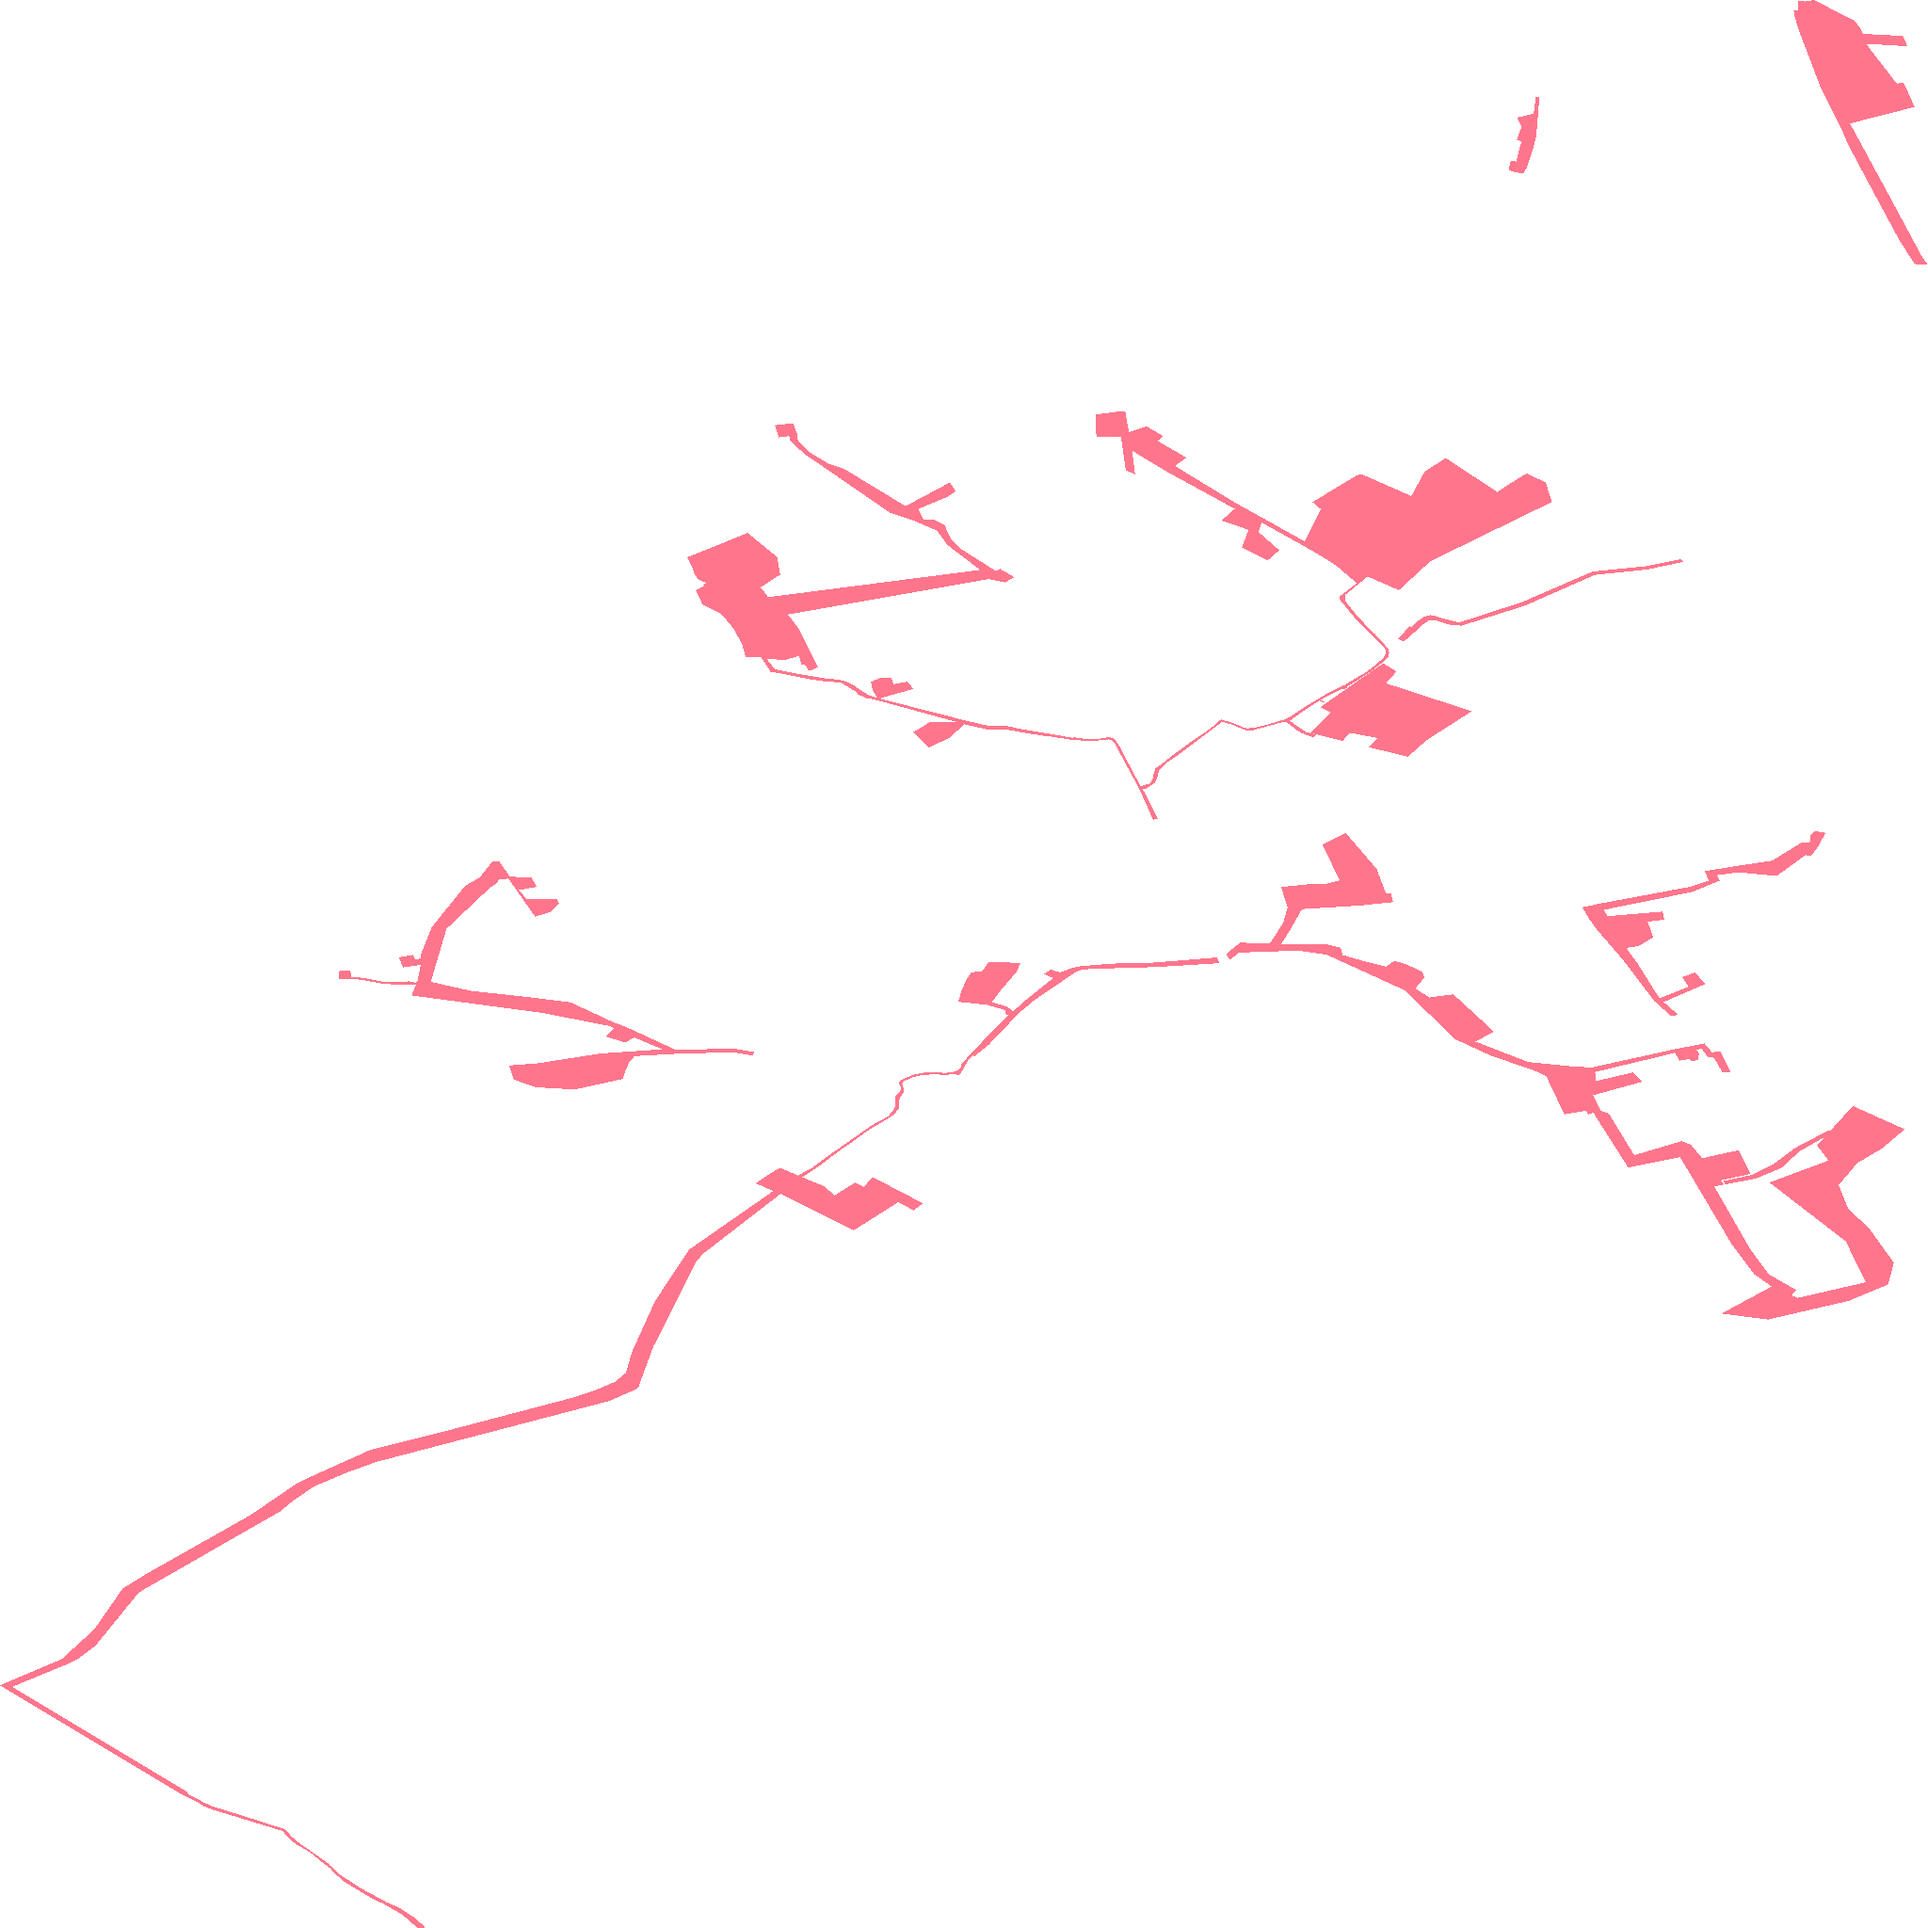
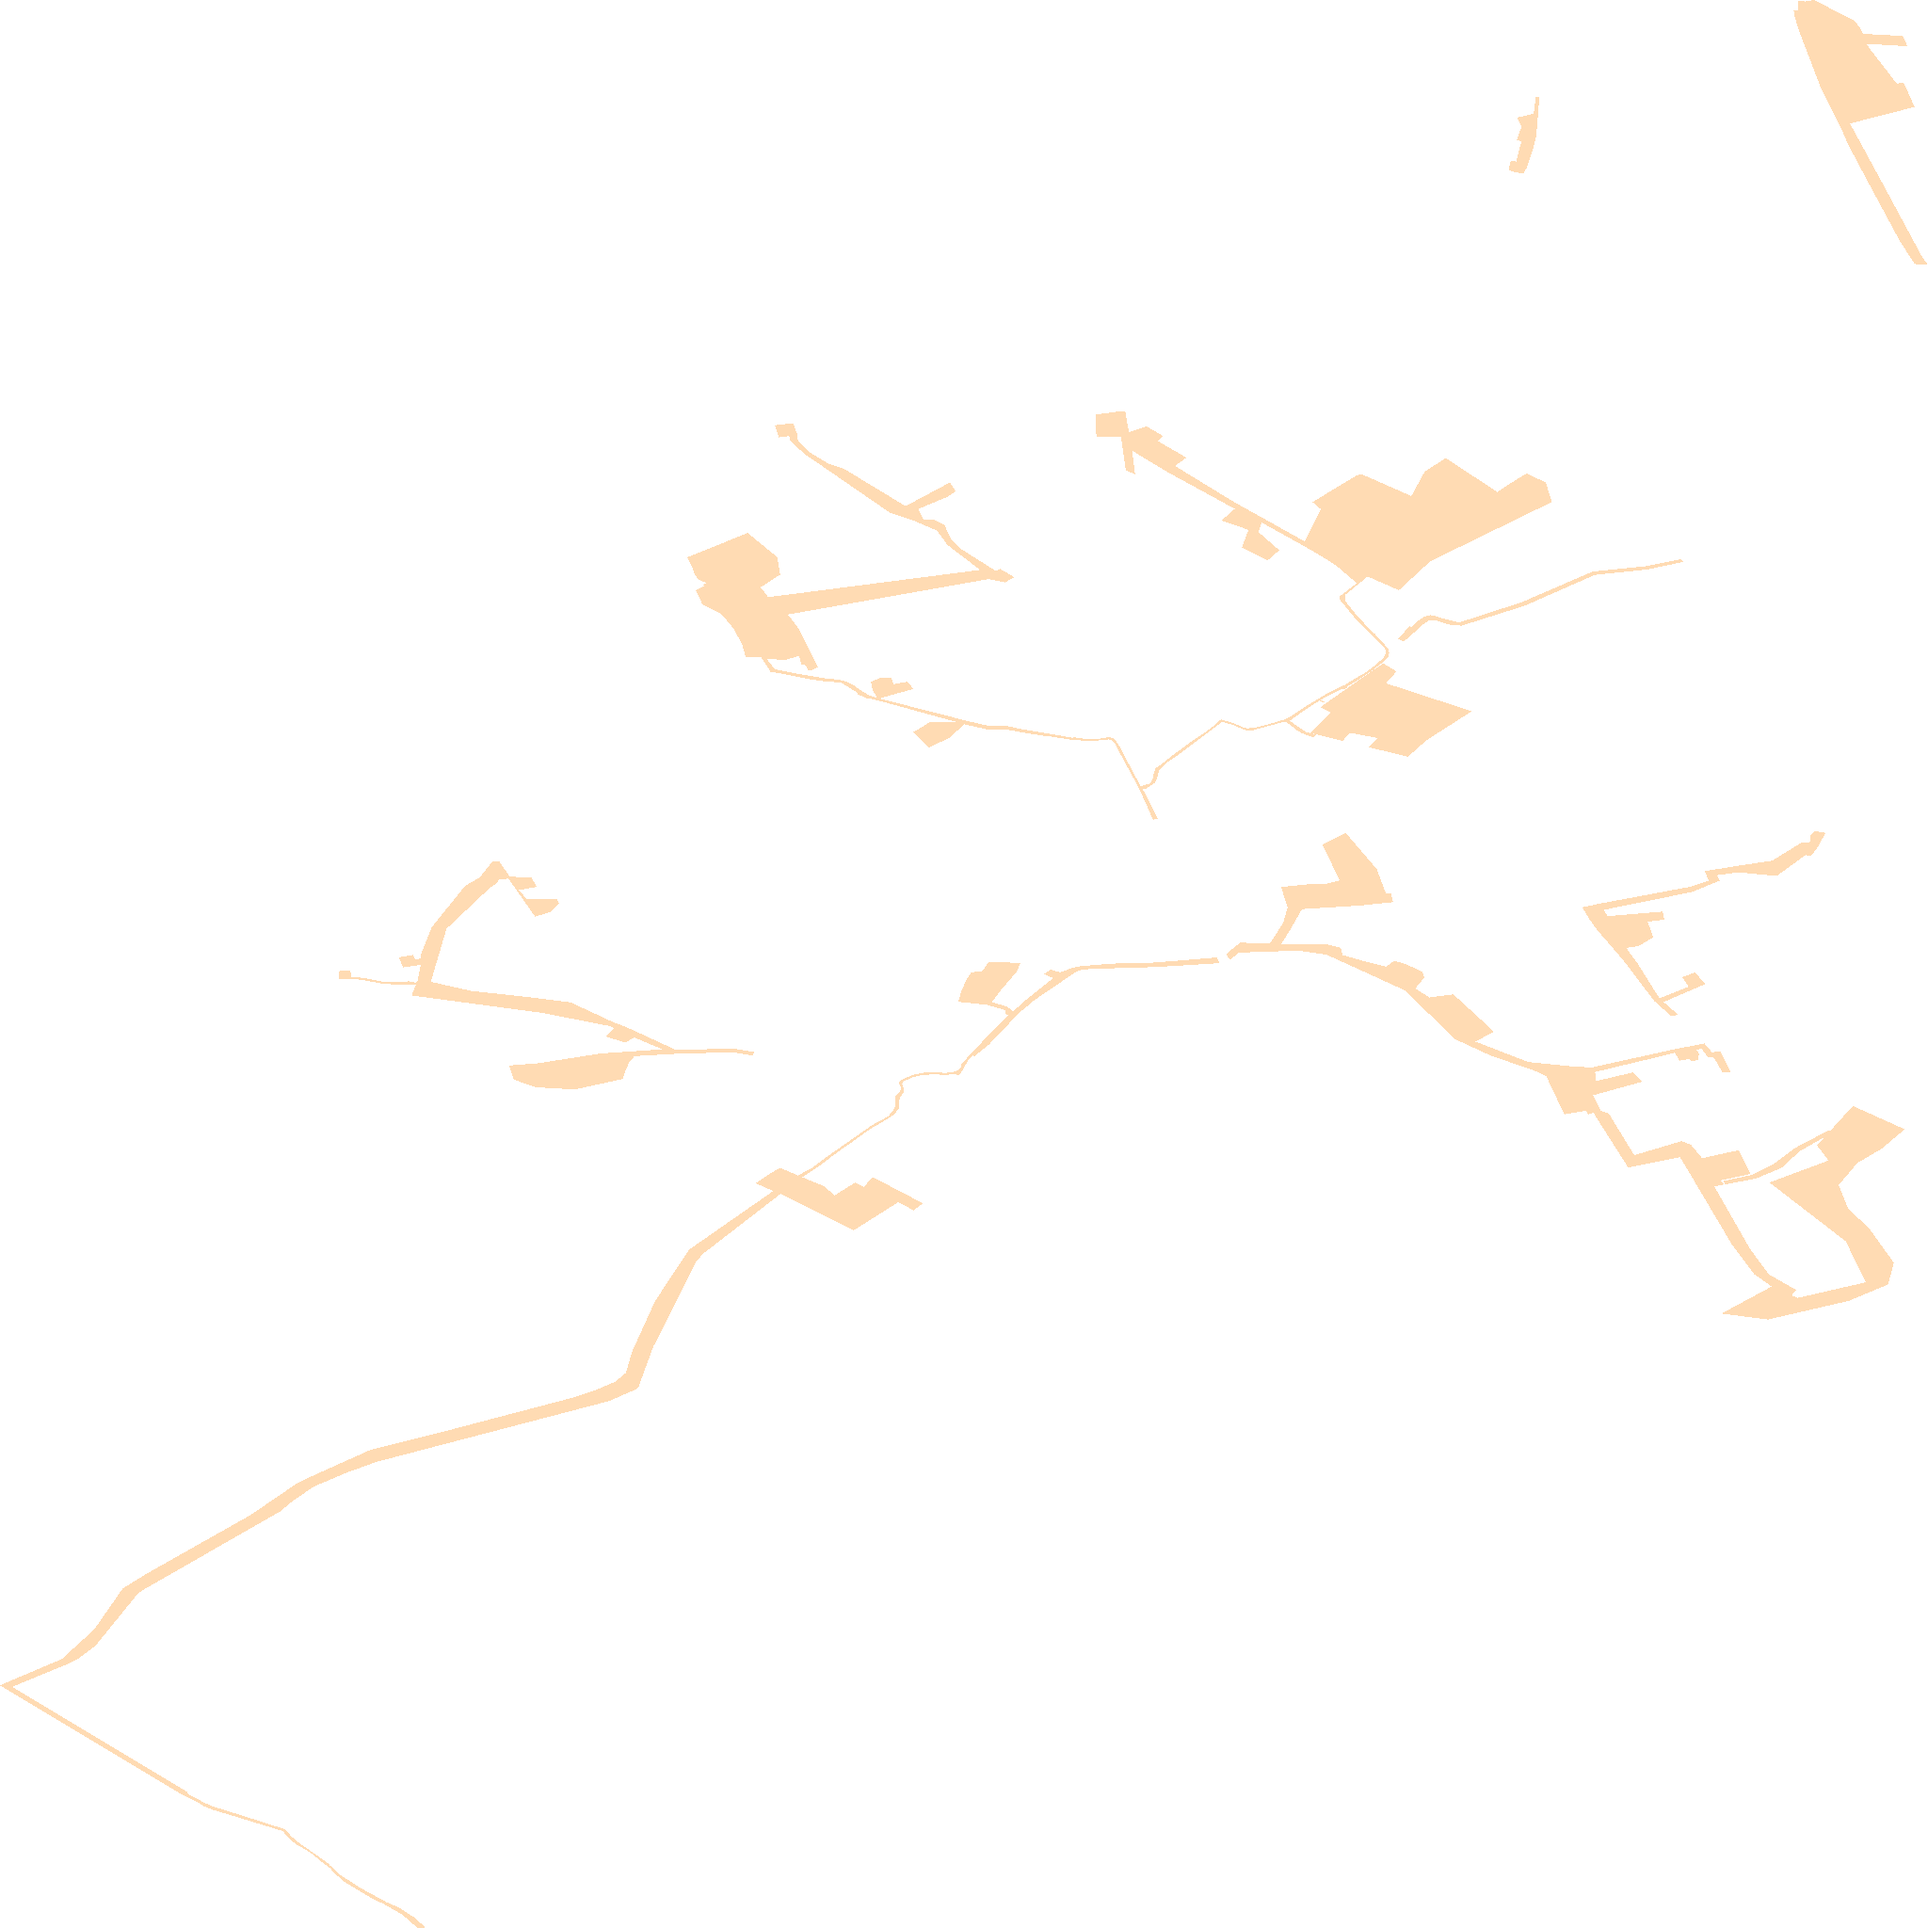
Karte sp_606

diff --git a/sp_606.html b/sp_606.html
@@ -60,7 +60,7 @@
         }
         .custom-control2 {
             position: absolute;
-            bottom: -320px;
+            top: 110px;
             left: 0px;
             background: white;
             padding: 5px;
@@ -77,24 +77,6 @@
         .custom-control:hover, .custom-control2:hover {
             background-color: #f0f0f0 !important;
         }
-        .leaflet-control-geocoder-icon {
-            background-color: white !important;
-            color: grey !important;
-            border: none !important;
-            width: 20px;
-            height: 20px;
-            display: flex;
-            justify-content: center;
-            align-items: center;
-            font-size: 15px;
-            font-family: 'Montserrat', sans-serif;
-            box-shadow: 0 1px 3px rgba(0, 0, 0, 0.3);
-            border-radius: 2px;
-            cursor: pointer;
-        }
-        .leaflet-control-geocoder-icon:hover {
-            background-color: #f0f0f0 !important;
-        }
         .custom-marker {
             width: 15px;
             height: 15px;
@@ -104,8 +86,8 @@
         }
         #legend {
             position: absolute;
-            bottom: 80px;
-            left: 55px;
+            top: 160px;
+            left: 10px;
             display: none;
             z-index: 1000;
             background: white;
@@ -128,8 +110,9 @@
 <body>
     <div id="map"></div>
     <div id="legend">
-        <div><span style="display:inline-block; width:20px; height:10px; background:#FF7F00; margin-right:5px;"></span>Ausbauphase 1: Ausbau bei ausreichender Nachfrage</div>
+        <div><span style="display:inline-block; width:20px; height:10px; background:#FF7F00; margin-right:5px;"></span>Ausbauphase 1: Glasfasernetz vorhanden oder geplant</div>
         <div><span style="display:inline-block;width:20px; height:10px; background:#00143C; margin-right:5px;"></span>Ausbauphase 2: Interessenbekundung möglich</div>
+        <div><span style="display:inline-block;width:20px; height:10px; background:#FFC17D; margin-right:5px;"></span>Ausbauphase 3: Gefördertes Ausbaugebiet </div>
     </div>
     <script>
     const bounds = [[50.449967034, 7.974561715], [50.535467363, 8.053583497]];
@@ -166,20 +149,6 @@
         });
         map.addControl(new legendControl());
         const markerLayerGroup = L.layerGroup().addTo(map);
-        const geocoder = L.Control.geocoder({
-            defaultMarkGeocode: false
-        })
-            .on('markgeocode', function (e) {
-                markerLayerGroup.clearLayers();
-                const latlng = e.geocode.center;
-                const customMarker = L.divIcon({
-                    className: 'custom-marker'
-                });
-                const marker = L.marker(latlng, { icon: customMarker });
-                markerLayerGroup.addLayer(marker);
-                map.fitBounds(bounds);
-            })
-            .addTo(map);
     </script>
 </body>
 </html>
